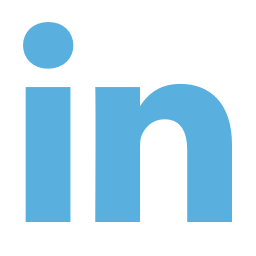
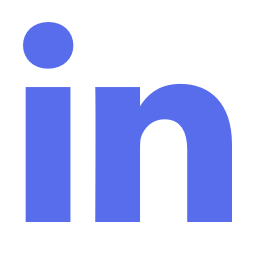
Added about me page; change link style;

diff --git a/src/Aboutme.js b/src/Aboutme.js
@@ -1,0 +1,43 @@
+import React from 'react'
+import { Link } from 'react-router'
+import CloseNav from './CloseNav.js'
+import selfpic from '../assets/thumbnail/cye.jpg'
+import style from './home.scss'
+
+
+class Aboutme extends React.Component {
+
+  render() {
+      return (
+        <div className={style.wrapper}>
+          <CloseNav/>
+          <div className={style.about}>
+            <div className={'six columns'}> 
+                <img className={style.mypic} src={selfpic}></img>  
+            </div>	
+            <div className={'six columns'}>   
+              <div className={style.myintro}> 
+                  <h3>Hello!</h3>
+                  <p>I am Chen Ye, a user experience designer based in San Francisco Bay Area.</p>
+                  <p>Coming from engineering background, I’ve always enjoy building things, and have built intelligence racing car as well as optical displacement sensor with nanometer precision. I designed electronic circuits to make magic happen on the printed circuit board.</p>
+                  <p>Then I became a designer. In the past few years, I have brought conceptual ideas to life while honing my craft and execution skills. Design has taught me to shift my eyes from technology to people, and approach problems from a different perspective. Now I am determined to continue solving real people problems with empathetic and innovative designs. </p>
+                  <p>When I am not busy designing, I learn and experiment with new technology. I believe learning is a treasure and the only way to keep up with ever-changing world. Most recently, amazed by the power of webGL and the richness of content it can bring to the web, I’ve been creating my own 3D content.</p>
+              </div> 
+            
+              <div className={style.contact}>
+                <div> 
+                <a href='http://www.linkedin.com/in/iamchenye'><div id={style.linkedin} className={style.social}></div></a>
+                <a href='https://github.com/chenye0'><div id={style.github} className={style.social}></div></a>
+                <a href='https://twitter.com/_chenye'><div id={style.twitter} className={style.social}></div></a>
+                </div>
+             </div> 
+            </div>  
+          </div>
+        </div>
+      );
+  }
+}
+
+
+
+export default Aboutme;

diff --git a/src/CiscoSecurity.js b/src/CiscoSecurity.js
@@ -1,28 +1,23 @@
 import React from 'react'
 import style from './project.scss'
-import { Link } from 'react-router'
+import CloseNav from './CloseNav.js'
 import Footer from './Footer.js'
 import PageNav from './PageNav.js'
 import demo from '../assets/SecurityTool/dashboarddemo.mp4'
 import bigraph from '../assets/SecurityTool/graphdemo.mp4'
 import evolution from '../assets/SecurityTool/evolution.png'
-import geo from '../assets/SecurityTool/Geomap.png'
+import geo from '../assets/SecurityTool/GeomapUI.png'
 import mindmap from '../assets/SecurityTool/mindmap.png'
 import taskstep from '../assets/SecurityTool/tasksteps.png'
 import flow from '../assets/SecurityTool/taskflow.png'
 import bg from '../assets/SecurityTool/wannacry.png'
-
-const close = <svg fill="#1EAEDB" width="28" version="1.1" xmlns="http://www.w3.org/2000/svg" height="28" viewBox="0 0 64 64" >
-  <g> <path d="M28.941,31.786L0.613,60.114c-0.787,0.787-0.787,2.062,0,2.849c0.393,0.394,0.909,0.59,1.424,0.59   c0.516,0,1.031-0.196,1.424-0.59l28.541-28.541l28.541,28.541c0.394,0.394,0.909,0.59,1.424,0.59c0.515,0,1.031-0.196,1.424-0.59   c0.787-0.787,0.787-2.062,0-2.849L35.064,31.786L63.41,3.438c0.787-0.787,0.787-2.062,0-2.849c-0.787-0.786-2.062-0.786-2.848,0   L32.003,29.15L3.441,0.59c-0.787-0.786-2.061-0.786-2.848,0c-0.787,0.787-0.787,2.062,0,2.849L28.941,31.786z"/>
-  </g>
-</svg>;
 
 class SecurityTool extends React.Component {
   render() {
 
     return (
   		<div className={style.wrapper}>
-        	<Link className={style.closebtn} to="/">{close}</Link>
+        	<CloseNav/>
 			<div className={style.titlesection} style={{backgroundImage: 'url(' + bg + ')', height: '480px'}}>	
 				<h1>Security Product Design at Cisco</h1>		
 			    <p>How might we present security data better to help security analysts investigate and mitigate network threats?</p>  

diff --git a/src/FfRedesign.js b/src/FfRedesign.js
@@ -1,6 +1,6 @@
 import React from 'react'
 import style from './project.scss'
-import { Link } from 'react-router'
+import CloseNav from './CloseNav.js'
 import Footer from './Footer.js'
 import PageNav from './PageNav.js'
 import bg from '../assets/FarmerFrog/herobg.png'
@@ -17,11 +17,6 @@ import homepage from '../assets/FarmerFrog/homepage.png'
 import school from '../assets/FarmerFrog/schoolpage.png'
 import blog from '../assets/FarmerFrog/blogpage.png'
 
-const close = <svg fill="#1EAEDB" width="28" version="1.1" xmlns="http://www.w3.org/2000/svg" height="28" viewBox="0 0 64 64" >
-  <g> <path d="M28.941,31.786L0.613,60.114c-0.787,0.787-0.787,2.062,0,2.849c0.393,0.394,0.909,0.59,1.424,0.59   c0.516,0,1.031-0.196,1.424-0.59l28.541-28.541l28.541,28.541c0.394,0.394,0.909,0.59,1.424,0.59c0.515,0,1.031-0.196,1.424-0.59   c0.787-0.787,0.787-2.062,0-2.849L35.064,31.786L63.41,3.438c0.787-0.787,0.787-2.062,0-2.849c-0.787-0.786-2.062-0.786-2.848,0   L32.003,29.15L3.441,0.59c-0.787-0.786-2.061-0.786-2.848,0c-0.787,0.787-0.787,2.062,0,2.849L28.941,31.786z"/>
-  </g>
-</svg>;
-
 class FfRedesign extends React.Component {
   constructor(props) {
     super(props);
@@ -33,7 +28,7 @@ class FfRedesign extends React.Component {
   render() {
     return (
   		<div className={style.wrapper}>
-        	<Link className={style.closebtn} to="/">{close}</Link>
+        	<CloseNav/>
 			<div className={style.titlesection} style={{backgroundImage: 'url(' + bg + ')', height: '520px'}}>	
 				<h1>FarmerFrog Website Design</h1>
 			    <p>A website redesign for Farmer Frog, a non-profit organization that supports local ecosystems and communities through the hands-on experience of restoring urban ecosystems by means of sustainable agriculture.</p>

diff --git a/src/CityFact.js b/src/CityFact.js
@@ -2,7 +2,7 @@ import React from 'react'
 import style from './project.scss'
 import Footer from './Footer.js'
 import PageNav from './PageNav.js'
-import { Link } from 'react-router'
+import CloseNav from './CloseNav.js'
 import bg from '../assets/dataviz/bg.png'
 import YouTube from 'react-youtube'
 import factors  from '../assets/dataviz/datasets.png'
@@ -18,12 +18,6 @@ import layout from '../assets/dataviz/layout.png'
 import bettergraph from '../assets/dataviz/bettergraph.png'
 import usability from '../assets/dataviz/usertest.png'
 
-
-const close = <svg fill="#1EAEDB" width="28" version="1.1" xmlns="http://www.w3.org/2000/svg" height="28" viewBox="0 0 64 64" >
-  <g> <path d="M28.941,31.786L0.613,60.114c-0.787,0.787-0.787,2.062,0,2.849c0.393,0.394,0.909,0.59,1.424,0.59   c0.516,0,1.031-0.196,1.424-0.59l28.541-28.541l28.541,28.541c0.394,0.394,0.909,0.59,1.424,0.59c0.515,0,1.031-0.196,1.424-0.59   c0.787-0.787,0.787-2.062,0-2.849L35.064,31.786L63.41,3.438c0.787-0.787,0.787-2.062,0-2.849c-0.787-0.786-2.062-0.786-2.848,0   L32.003,29.15L3.441,0.59c-0.787-0.786-2.061-0.786-2.848,0c-0.787,0.787-0.787,2.062,0,2.849L28.941,31.786z"/>
-  </g>
-</svg>;
-
 class FfRedesign extends React.Component {
   render() {
   	const opts = {
@@ -35,7 +29,7 @@ class FfRedesign extends React.Component {
     };
     return (
   		<div className={style.wrapper}>
-        	<Link className={style.closebtn} to="/">{close}</Link>
+        	<CloseNav/>
 			<div className={style.titlesection} style={{backgroundImage: 'url(' + bg + ')', height: '420px'}}>
 			    <h1>City Facts</h1>
 			    <p>How can we present complex government data to help people visualizing relocating factors?</p>

diff --git a/src/home.scss b/src/home.scss
@@ -11,8 +11,6 @@ body {
   justify-content: space-around;
   flex-direction: row;
   flex-wrap: wrap;
-  /*background-color: #333;*//*
-  font-family: 'Open Sans', sans-serif;*/
 
   .aboutme {
     flex: 1 1 30%;
@@ -25,8 +23,6 @@ body {
     position: fixed;
     top:0;
     left: 0;
-    /*background-color: #f5f5f5;*/
-    /*overflow: hidden;*/
   }
   .projects {
     flex: 1 1 55%;
@@ -34,8 +30,6 @@ body {
     padding-left: 310px;
     display: flex;
     height: 100%;
-    /*overflow-y: scroll;*/
-    /*background-color: #f5f5f5;*/
     flex-flow: row wrap;
     justify-content: space-between;
   }
@@ -76,11 +70,11 @@ body {
   }
 
 
-/*  .thumbnail:hover div{
-    -moz-transform: scale(1.05);
-    -webkit-transform: scale(1.05);
-    transform: scale(1.05);
-   }*/
+  .thumbnail:hover{
+    -moz-transform: scale(1.03);
+    -webkit-transform: scale(1.03);
+    transform: scale(1.03);
+   }
 
   .social {
     height: 24px;
@@ -120,7 +114,10 @@ body {
   .myintro {
     width: 80%;
     color: #333;
-
+    padding-top: 32px;
+    h3 {
+      margin-top: 0px;
+    }
     b {
       color: #1EAEDB;
       font-weight: 400;
@@ -151,6 +148,38 @@ body {
     height: 300px;
   }
 }
+
+.about {
+  padding: 16px 8%;
+  display: flex;
+  flex-wrap: wrap;
+  font-size: 1em;
+  div {
+    min-width: 350px;
+  }
+  .mypic {
+    padding:  5% 10%;
+    height: auto;
+  /*margin: 40px 20px 16px 20px;*/
+  }
+.myintro {
+  padding: 5%;
+  color: #333;
+
+  h3 {
+    margin-top: 0px;
+  }
+  b {
+    color: #1EAEDB;
+    font-weight: 400;
+  }
+  p {
+    margin-bottom: 1em;
+  }
+}
+
+}
+
 
 /* For devices larger than 750px */
 @media (max-width: 680px) {

diff --git a/src/Report.js b/src/Report.js
@@ -2,7 +2,7 @@ import React from 'react'
 import style from './project.scss'
 import Footer from './Footer.js'
 import PageNav from './PageNav.js'
-import { Link } from 'react-router'
+import CloseNav from './CloseNav.js'
 import bg from '../assets/Report/bg_dark.png'
 import prob1  from '../assets/Report/prob1.png'
 import prob2  from '../assets/Report/prob2.png'
@@ -13,16 +13,12 @@ import animation from '../assets/Report/overview.mp4'
 import infragraph from '../assets/Report/infragraph.mp4'
 import findings from '../assets/Report/findings.mp4'
 
-const close = <svg fill="#1EAEDB" width="28" version="1.1" xmlns="http://www.w3.org/2000/svg" height="28" viewBox="0 0 64 64" >
-  <g> <path d="M28.941,31.786L0.613,60.114c-0.787,0.787-0.787,2.062,0,2.849c0.393,0.394,0.909,0.59,1.424,0.59   c0.516,0,1.031-0.196,1.424-0.59l28.541-28.541l28.541,28.541c0.394,0.394,0.909,0.59,1.424,0.59c0.515,0,1.031-0.196,1.424-0.59   c0.787-0.787,0.787-2.062,0-2.849L35.064,31.786L63.41,3.438c0.787-0.787,0.787-2.062,0-2.849c-0.787-0.786-2.062-0.786-2.848,0   L32.003,29.15L3.441,0.59c-0.787-0.786-2.061-0.786-2.848,0c-0.787,0.787-0.787,2.062,0,2.849L28.941,31.786z"/>
-  </g>
-</svg>;
 
 class FfRedesign extends React.Component {
   render() {
     return (
   		<div className={style.wrapper}>
-        	<Link className={style.closebtn} to="/">{close}</Link>
+        	<CloseNav/>
 			<div className={style.titlesection} style={{backgroundImage: 'url(' + bg + ')', height: '480px'}}>
 			    <h1>Cisco Umbrella Security Report</h1>
 			    <p>How might we help customers uncover their network threats and understand the value of the product?</p>

diff --git a/src/Candybowl.js b/src/Candybowl.js
@@ -1,5 +1,5 @@
 import React from 'react'
-import { Link } from 'react-router'
+import CloseNav from './CloseNav.js'
 import YouTube from 'react-youtube'
 import Footer from './Footer.js'
 import PageNav from './PageNav.js'
@@ -17,10 +17,6 @@ import feature1 from '../assets/CandyBowl/feature1.png'
 import feature2 from '../assets/CandyBowl/feature2.png'
 import feature3 from '../assets/CandyBowl/feature3.png'
 
-const close = <svg fill="#1EAEDB" width="28" version="1.1" xmlns="http://www.w3.org/2000/svg" height="28" viewBox="0 0 64 64" >
-  <g> <path d="M28.941,31.786L0.613,60.114c-0.787,0.787-0.787,2.062,0,2.849c0.393,0.394,0.909,0.59,1.424,0.59   c0.516,0,1.031-0.196,1.424-0.59l28.541-28.541l28.541,28.541c0.394,0.394,0.909,0.59,1.424,0.59c0.515,0,1.031-0.196,1.424-0.59   c0.787-0.787,0.787-2.062,0-2.849L35.064,31.786L63.41,3.438c0.787-0.787,0.787-2.062,0-2.849c-0.787-0.786-2.062-0.786-2.848,0   L32.003,29.15L3.441,0.59c-0.787-0.786-2.061-0.786-2.848,0c-0.787,0.787-0.787,2.062,0,2.849L28.941,31.786z"/>
-  </g>
-</svg>;
 
 class CandyBowl extends React.Component {
   render() {
@@ -33,7 +29,7 @@ class CandyBowl extends React.Component {
     };
     return (
       <div className={style.wrapper}>
-        <Link className={style.closebtn} to="/">{close}</Link>
+        <CloseNav/>
         <div className={style.titlesection} style={{backgroundImage: 'url(' + bg + ')', height: '486px'}}>
           <h1>Reimagine the Candy Bowl Experience</h1>
           <p>Have you ever thought about how a candy bowl changes the environment it’s in?</p>   

diff --git a/src/Mobile.js b/src/Mobile.js
@@ -1,5 +1,5 @@
 import React from 'react'
-import { Link } from 'react-router'
+import CloseNav from './CloseNav.js'
 import Footer from './Footer.js'
 import PageNav from './PageNav.js'
 import style from './project.scss'
@@ -14,16 +14,11 @@ import persona from '../assets/Wishlist/persona.png'
 import usability from '../assets/Wishlist/usability.png'
 import mockup from '../assets/Wishlist/appmockup.png'
 
-const close = <svg fill="#1EAEDB" width="28" version="1.1" xmlns="http://www.w3.org/2000/svg" height="28" viewBox="0 0 64 64" >
-  <g> <path d="M28.941,31.786L0.613,60.114c-0.787,0.787-0.787,2.062,0,2.849c0.393,0.394,0.909,0.59,1.424,0.59   c0.516,0,1.031-0.196,1.424-0.59l28.541-28.541l28.541,28.541c0.394,0.394,0.909,0.59,1.424,0.59c0.515,0,1.031-0.196,1.424-0.59   c0.787-0.787,0.787-2.062,0-2.849L35.064,31.786L63.41,3.438c0.787-0.787,0.787-2.062,0-2.849c-0.787-0.786-2.062-0.786-2.848,0   L32.003,29.15L3.441,0.59c-0.787-0.786-2.061-0.786-2.848,0c-0.787,0.787-0.787,2.062,0,2.849L28.941,31.786z"/>
-  </g>
-</svg>;
-
 class Mobile extends React.Component {
   render() {
     return (
       <div className={style.wrapper}>
-        <Link className={style.closebtn} to="/">{close}</Link>
+        <CloseNav/>
         <div className={style.titlesection} style={{backgroundImage: 'url(' + bg + ')', height: '500px'}}>
           <h1>Wishes Come True</h1>
           <p>How can we help college students understand the value of budget and support them to create and maintain a budget?</p>   

diff --git a/src/ThreejsExp.js b/src/ThreejsExp.js
@@ -1,11 +1,7 @@
 import React from 'react'
-import { Link } from 'react-router'
+import CloseNav from './CloseNav.js'
 import style from './project.scss'
 
-const close = <svg fill="#1EAEDB" width="28" version="1.1" xmlns="http://www.w3.org/2000/svg" height="28" viewBox="0 0 64 64" >
-  <g> <path d="M28.941,31.786L0.613,60.114c-0.787,0.787-0.787,2.062,0,2.849c0.393,0.394,0.909,0.59,1.424,0.59   c0.516,0,1.031-0.196,1.424-0.59l28.541-28.541l28.541,28.541c0.394,0.394,0.909,0.59,1.424,0.59c0.515,0,1.031-0.196,1.424-0.59   c0.787-0.787,0.787-2.062,0-2.849L35.064,31.786L63.41,3.438c0.787-0.787,0.787-2.062,0-2.849c-0.787-0.786-2.062-0.786-2.848,0   L32.003,29.15L3.441,0.59c-0.787-0.786-2.061-0.786-2.848,0c-0.787,0.787-0.787,2.062,0,2.849L28.941,31.786z"/>
-  </g>
-</svg>;
 
 class ThreejsExp extends React.Component {
 constructor(props) {
@@ -30,7 +26,7 @@ constructor(props) {
   render() {
     return (
       <div className={style.iframewrapper}>
-        <Link className={style.closebtn} to="/">{close}</Link>
+        <CloseNav/>
         <iframe className={style.viewer} ref="threejs" title="myiframe" src="https://chenye0.github.io/ParticleExp/index.html" allowFullScreen="allowFullScreen" frameBorder="0" width={this.state.width} height={this.state.height}></iframe>
       </div>
     )

diff --git a/src/Home.js b/src/Home.js
@@ -17,12 +17,11 @@ class Home extends React.Component {
       return (
         <div className={style.home}>
           <div className={style.aboutme}> 
-              <img alt="" className={style.mypic} src={selfpic}></img> 
               <div className={style.myintro}>
-                  <h3>Hi! I am Chen Ye. </h3>
+                  <h3>Hello! I am Chen Ye.</h3>
                   <p>I am a product designer based in San Francisco Bay Area.</p>
                   <p>Currently I am designing with big data for Cisco, to help security practitioners hunt for network threats and protect people.</p>
-                  <p>You can view my resume <a href='https://drive.google.com/open?id=19152lISm5s70YAvs0JpqBjssiNMGjkaP'>here</a>. Please feel free to contact me at <a href="mailto:yechen0712@gmail.com">yechen0712@gmail.com</a>.</p>
+                  <p>You can read more <Link className={style.pagelink} to="/Aboutme">about me</Link>, view my <a href='https://drive.google.com/open?id=19152lISm5s70YAvs0JpqBjssiNMGjkaP'>resume</a>, or email me at <a href="mailto:yechen0712@gmail.com">yechen0712@gmail.com</a>.</p>
               </div> 
               <div className={style.contact}>
                 <div> 

diff --git a/src/Viz.js b/src/Viz.js
@@ -3,10 +3,8 @@ import style from './project.scss'
 import { Link } from 'react-router'
 import Footer from './Footer.js'
 import PageNav from './PageNav.js'
-import demo from '../assets/SecurityTool/dashboarddemo.mp4'
 import demo1 from '../assets/SecurityTool/graphdemo.mp4'
 import evolution from '../assets/SecurityTool/evolution.png'
-import bg from '../assets/SecurityTool/wannacry.png'
 
 const close = <svg fill="#1EAEDB" width="28" version="1.1" xmlns="http://www.w3.org/2000/svg" height="28" viewBox="0 0 64 64" >
   <g> <path d="M28.941,31.786L0.613,60.114c-0.787,0.787-0.787,2.062,0,2.849c0.393,0.394,0.909,0.59,1.424,0.59   c0.516,0,1.031-0.196,1.424-0.59l28.541-28.541l28.541,28.541c0.394,0.394,0.909,0.59,1.424,0.59c0.515,0,1.031-0.196,1.424-0.59   c0.787-0.787,0.787-2.062,0-2.849L35.064,31.786L63.41,3.438c0.787-0.787,0.787-2.062,0-2.849c-0.787-0.786-2.062-0.786-2.848,0   L32.003,29.15L3.441,0.59c-0.787-0.786-2.061-0.786-2.848,0c-0.787,0.787-0.787,2.062,0,2.849L28.941,31.786z"/>

diff --git a/src/CloseNav.js b/src/CloseNav.js
@@ -1,0 +1,19 @@
+import React from 'react'
+import { Link } from 'react-router'
+import style from './project.scss'
+
+const close = <svg fill="#576DEB" width="28" version="1.1" xmlns="http://www.w3.org/2000/svg" height="28" viewBox="0 0 64 64" >
+  <g> <path d="M28.941,31.786L0.613,60.114c-0.787,0.787-0.787,2.062,0,2.849c0.393,0.394,0.909,0.59,1.424,0.59   c0.516,0,1.031-0.196,1.424-0.59l28.541-28.541l28.541,28.541c0.394,0.394,0.909,0.59,1.424,0.59c0.515,0,1.031-0.196,1.424-0.59   c0.787-0.787,0.787-2.062,0-2.849L35.064,31.786L63.41,3.438c0.787-0.787,0.787-2.062,0-2.849c-0.787-0.786-2.062-0.786-2.848,0   L32.003,29.15L3.441,0.59c-0.787-0.786-2.061-0.786-2.848,0c-0.787,0.787-0.787,2.062,0,2.849L28.941,31.786z"/>
+  </g>
+</svg>;
+
+class CloseNav extends React.Component {
+  render() {
+    return (
+      <Link className={style.closebtn} to="/">{close}</Link>
+    )
+  }
+}
+
+export default CloseNav;
+
